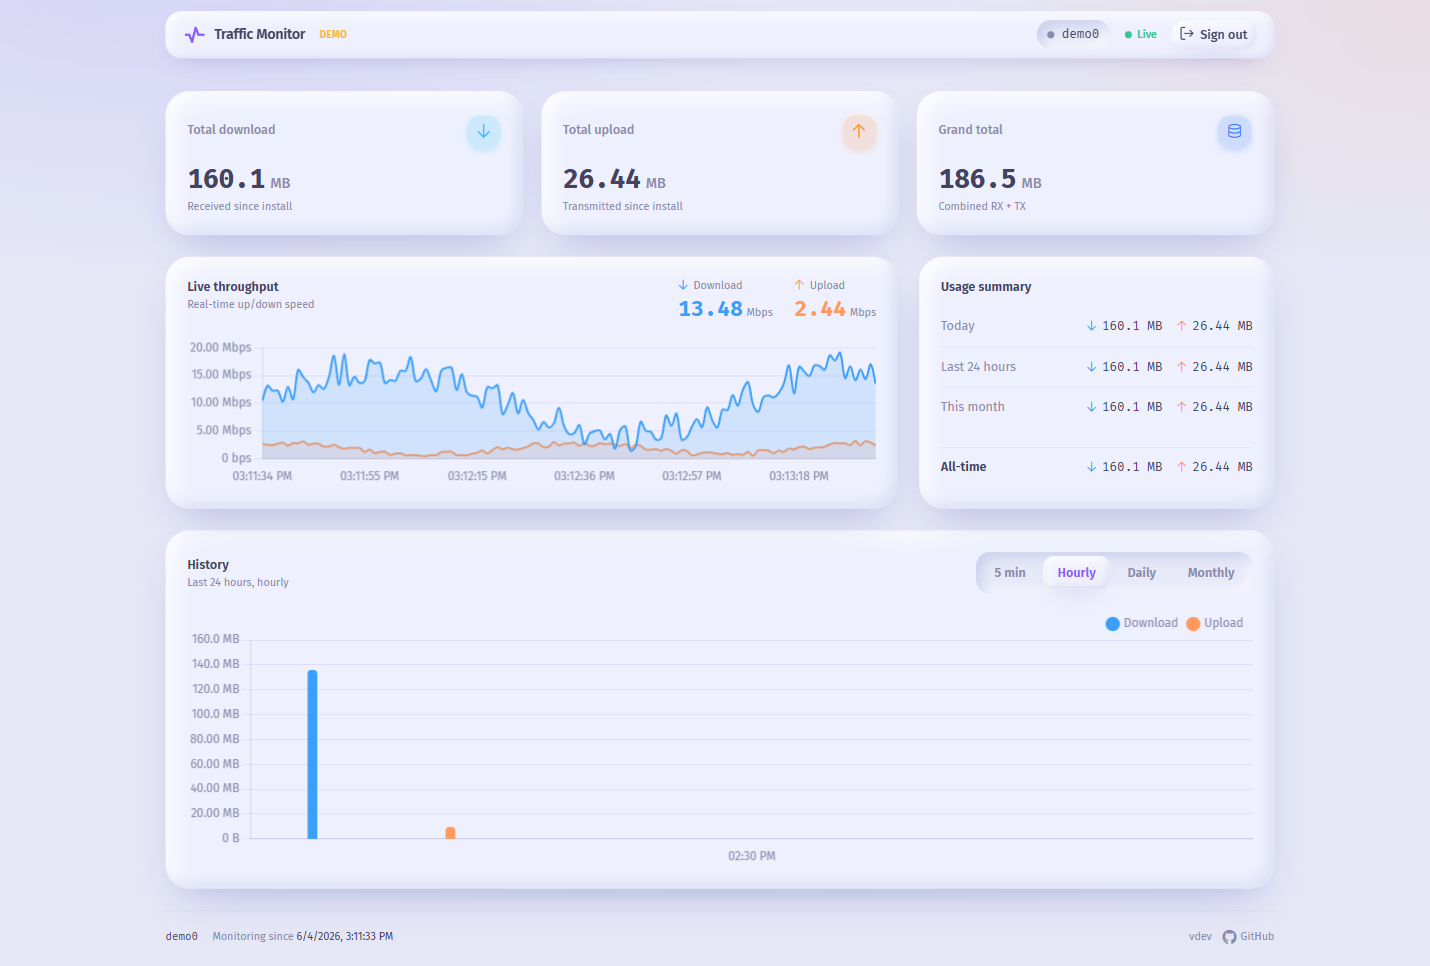
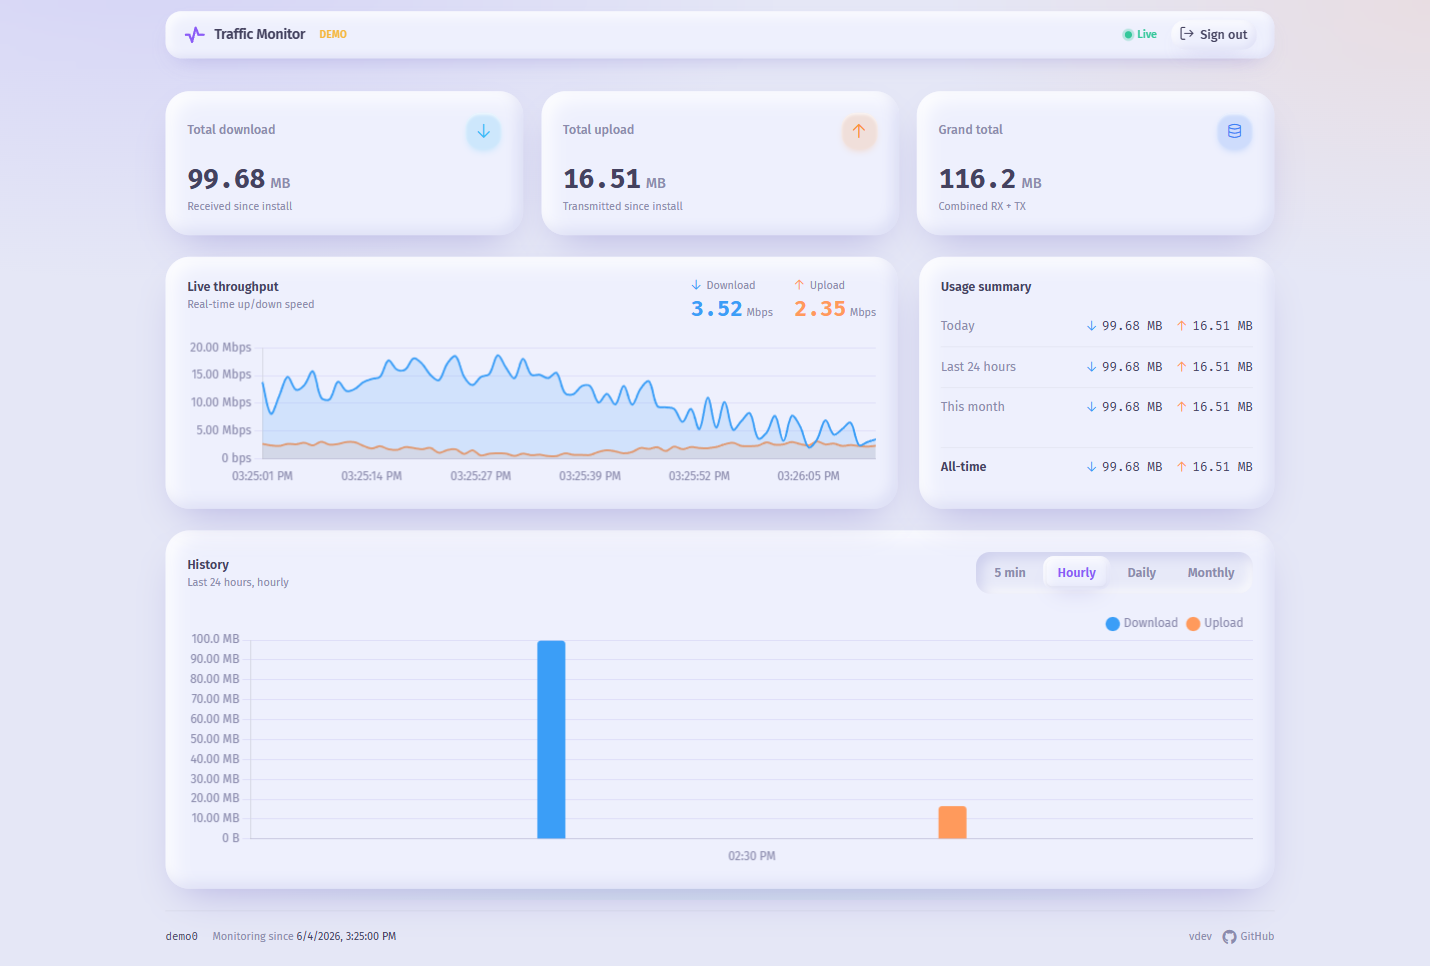
UI: remove interface name from the header (kept in the footer)
The interface name (and its status dot) was redundant with the footer, which
already shows the interface, MAC, MTU, and link speed. The header now carries
just the brand, demo badge, live indicator, and sign out.

diff --git a/frontend/components/TopBar.vue b/frontend/components/TopBar.vue
@@ -18,12 +18,6 @@
         </div>
 
         <div class="ml-auto flex flex-wrap items-center gap-x-3 gap-y-2 sm:gap-x-4">
-          <!-- Interface -->
-          <div class="clay-inset flex items-center gap-2 px-3 py-1.5">
-            <span class="h-2 w-2 rounded-full" :class="stateDot" :title="iface?.operstate || 'unknown'" />
-            <span class="tnum text-sm text-ink">{{ iface?.name || '—' }}</span>
-          </div>
-
           <!-- Live link status -->
           <span
             class="inline-flex items-center gap-1.5 text-xs font-medium"
@@ -57,19 +51,8 @@
 <script setup lang="ts">
 import type { InterfaceResp } from '~/composables/useApi'
 
-const props = defineProps<{ iface: InterfaceResp | null; connected: boolean }>()
+defineProps<{ iface: InterfaceResp | null; connected: boolean }>()
 const { logout } = useAuth()
-
-const stateDot = computed(() => {
-  switch (props.iface?.operstate) {
-    case 'up':
-      return 'bg-up'
-    case 'down':
-      return 'bg-down'
-    default:
-      return 'bg-muted'
-  }
-})
 
 async function onLogout() {
   await logout()
